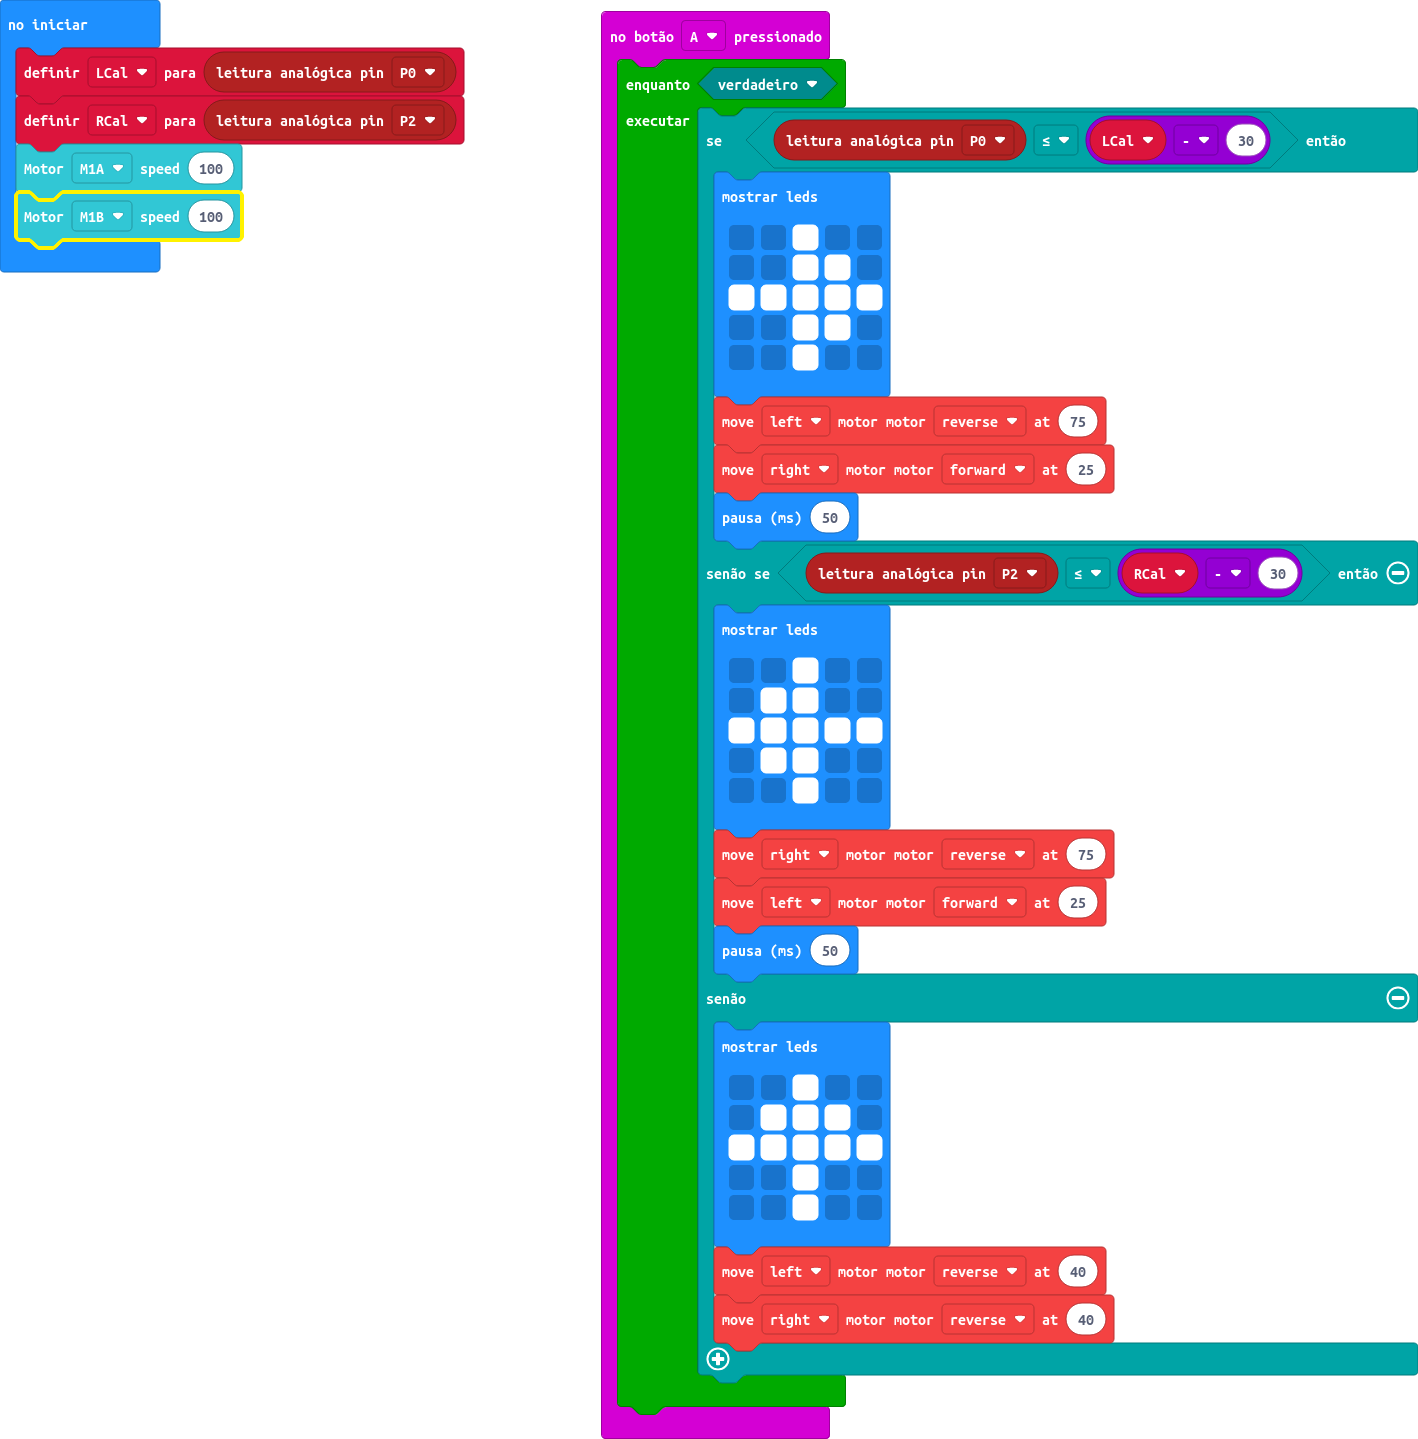
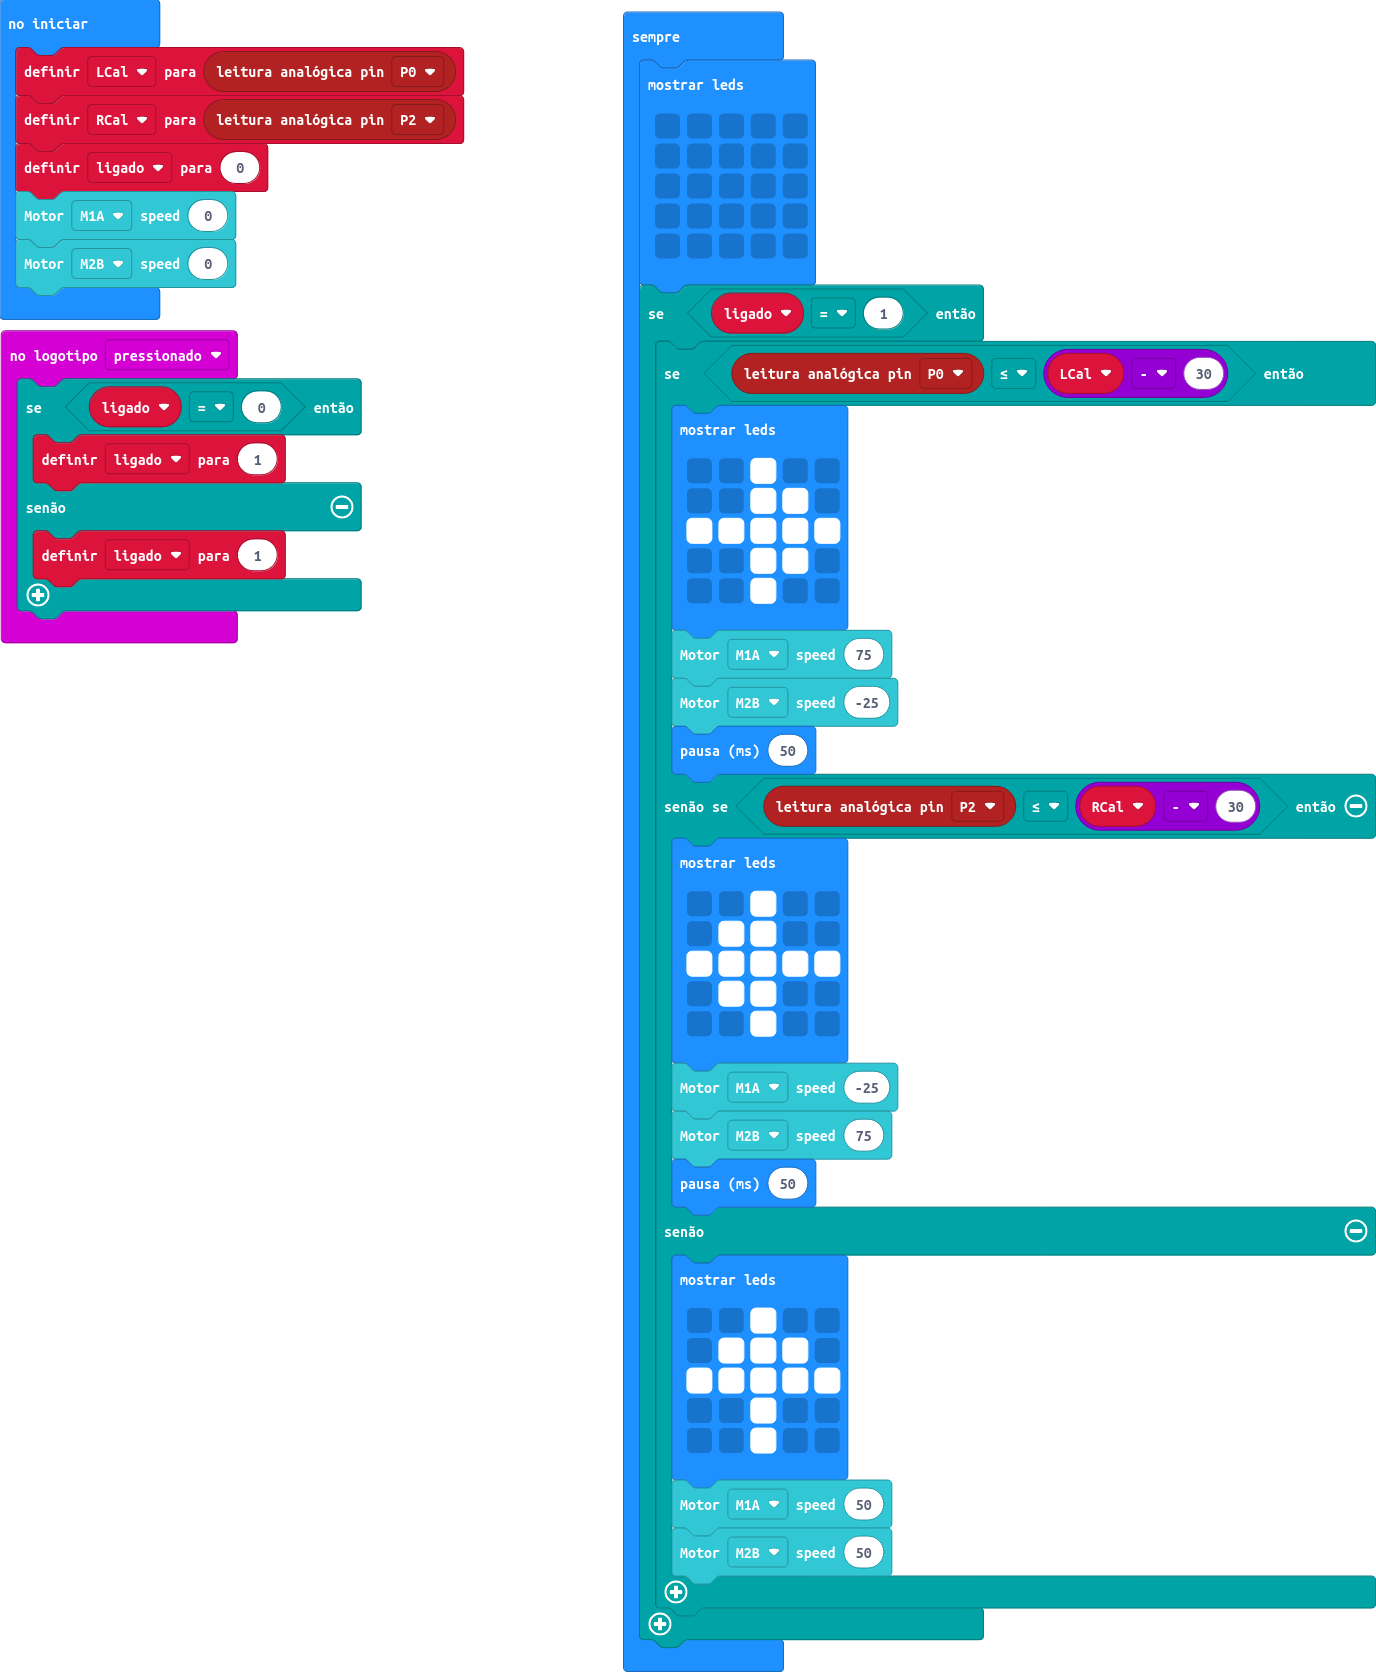
Atualizar 'main.blocks, main.ts'

diff --git a/main.ts b/main.ts
@@ -1,5 +1,25 @@
-input.onButtonPressed(Button.A, function () {
-    while (true) {
+input.onLogoEvent(TouchButtonEvent.Pressed, function () {
+    if (ligado == 0) {
+        ligado = 1
+    } else {
+        ligado = 1
+    }
+})
+let ligado = 0
+let LCal = pins.analogReadPin(AnalogPin.P0)
+let RCal = pins.analogReadPin(AnalogPin.P2)
+ligado = 0
+robotbit.MotorRun(robotbit.Motors.M1A, 0)
+robotbit.MotorRun(robotbit.Motors.M2B, 0)
+basic.forever(function () {
+    basic.showLeds(`
+        . . . . .
+        . . . . .
+        . . . . .
+        . . . . .
+        . . . . .
+        `)
+    if (ligado == 1) {
         if (pins.analogReadPin(AnalogPin.P0) <= LCal - 30) {
             basic.showLeds(`
                 . . # . .
@@ -8,8 +28,8 @@ input.onButtonPressed(Button.A, function () {
                 . . # # .
                 . . # . .
                 `)
-            motobit.setMotorSpeed(Motor.Left, MotorDirection.Reverse, 75)
-            motobit.setMotorSpeed(Motor.Right, MotorDirection.Forward, 25)
+            robotbit.MotorRun(robotbit.Motors.M1A, 75)
+            robotbit.MotorRun(robotbit.Motors.M2B, -25)
             basic.pause(50)
         } else if (pins.analogReadPin(AnalogPin.P2) <= RCal - 30) {
             basic.showLeds(`
@@ -19,8 +39,8 @@ input.onButtonPressed(Button.A, function () {
                 . # # . .
                 . . # . .
                 `)
-            motobit.setMotorSpeed(Motor.Right, MotorDirection.Reverse, 75)
-            motobit.setMotorSpeed(Motor.Left, MotorDirection.Forward, 25)
+            robotbit.MotorRun(robotbit.Motors.M1A, -25)
+            robotbit.MotorRun(robotbit.Motors.M2B, 75)
             basic.pause(50)
         } else {
             basic.showLeds(`
@@ -30,14 +50,8 @@ input.onButtonPressed(Button.A, function () {
                 . . # . .
                 . . # . .
                 `)
-            motobit.setMotorSpeed(Motor.Left, MotorDirection.Reverse, 40)
-            motobit.setMotorSpeed(Motor.Right, MotorDirection.Reverse, 40)
+            robotbit.MotorRun(robotbit.Motors.M1A, 50)
+            robotbit.MotorRun(robotbit.Motors.M2B, 50)
         }
     }
 })
-let RCal = 0
-let LCal = 0
-LCal = pins.analogReadPin(AnalogPin.P0)
-RCal = pins.analogReadPin(AnalogPin.P2)
-robotbit.MotorRun(robotbit.Motors.M1A, 100)
-robotbit.MotorRun(robotbit.Motors.M1B, 100)
